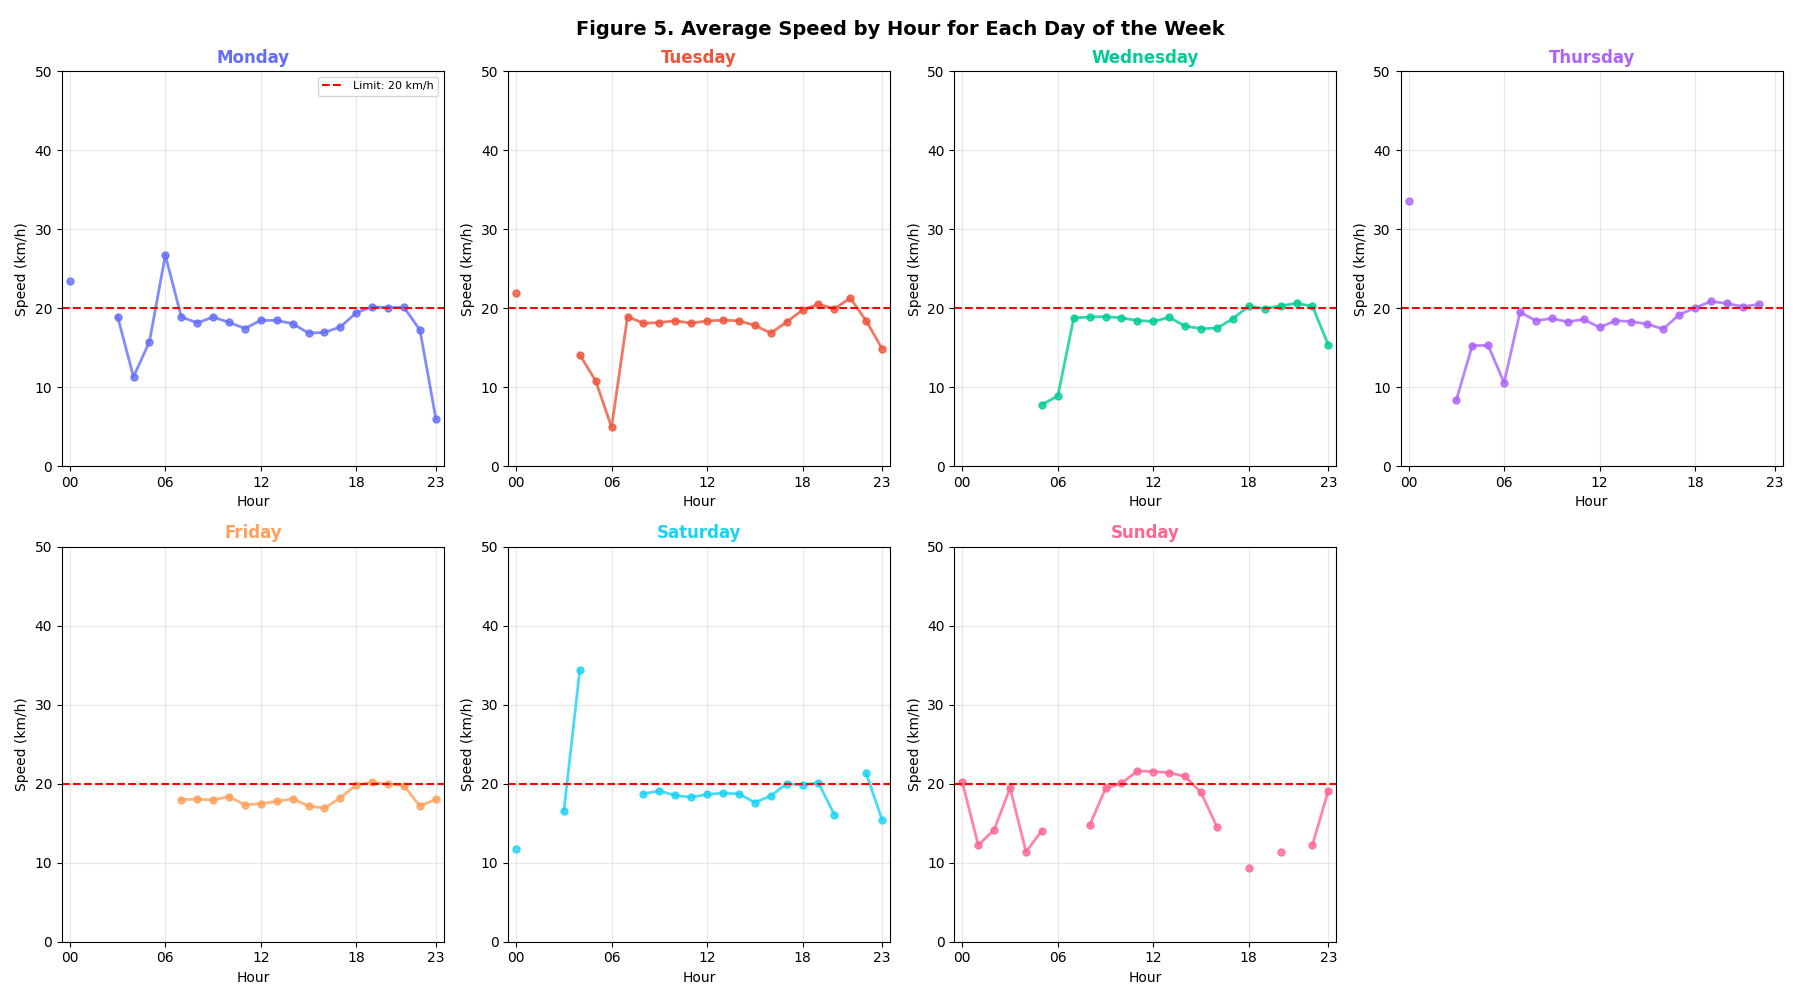
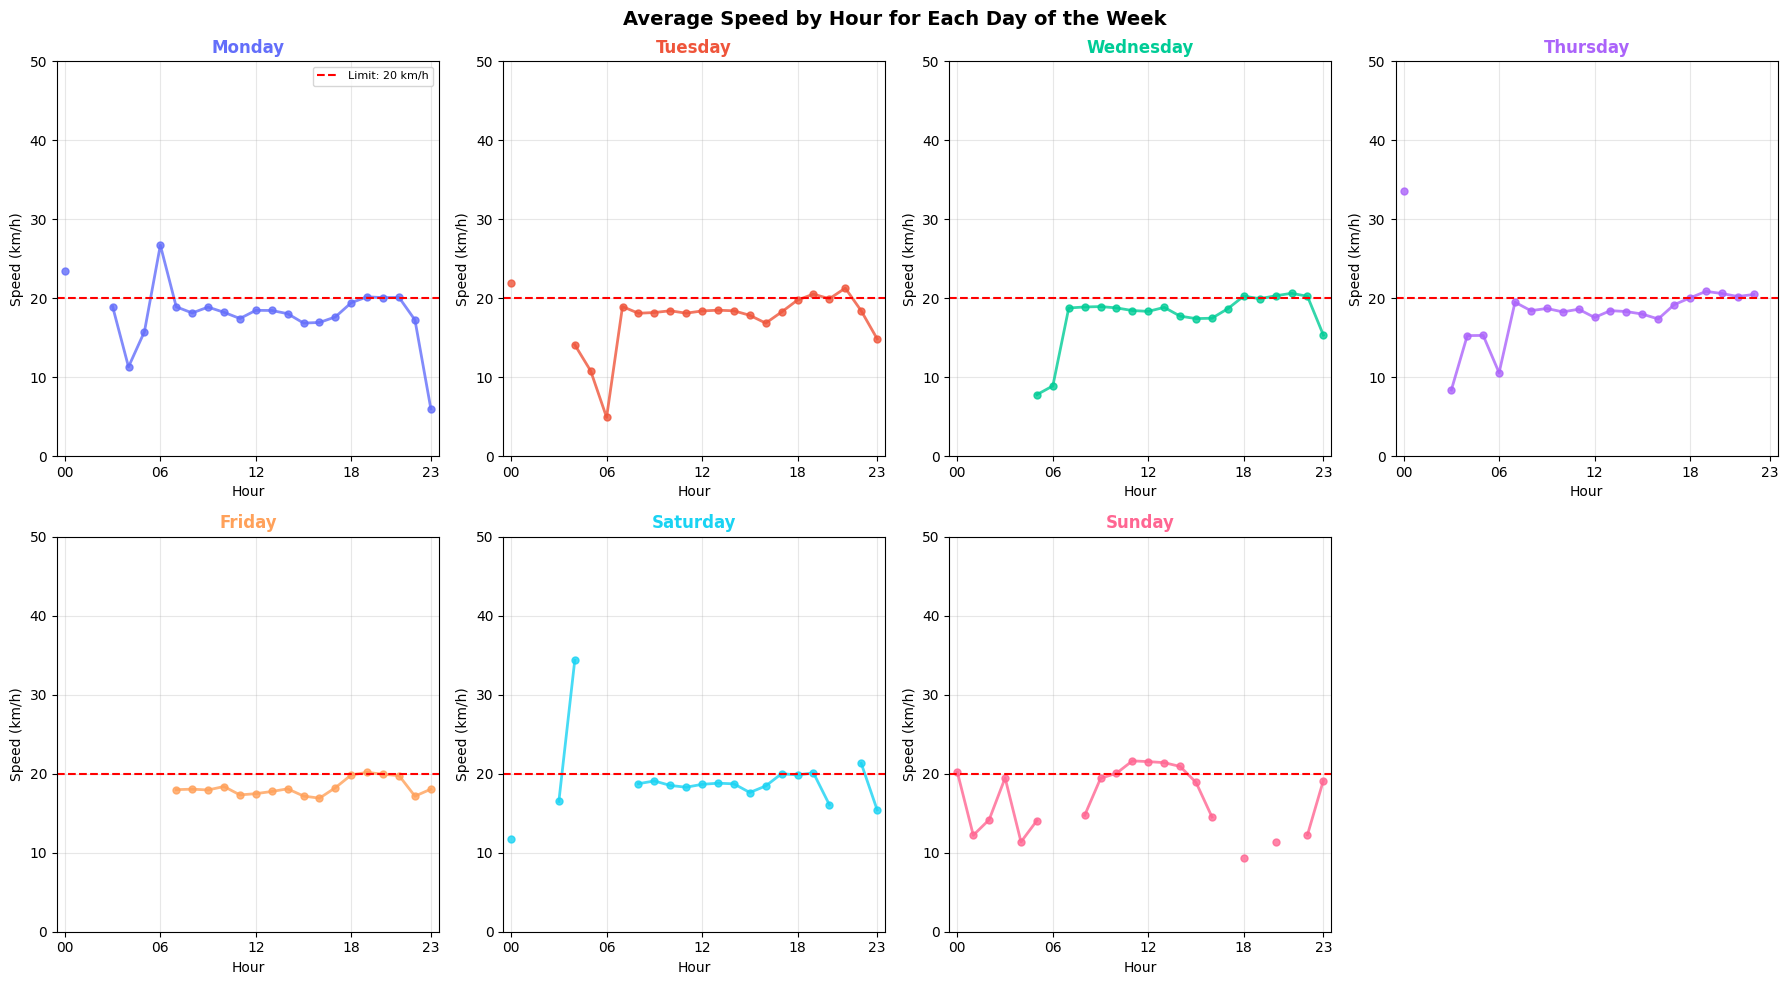
Remove figure numbers from plot titles for consistency in vehicle analysis charts

diff --git a/utils/plots_fiorenzo.py b/utils/plots_fiorenzo.py
@@ -801,7 +801,7 @@ def vehicle_count_by_category_bar_chart(data_summary, show_plot=False):
 
     ax.set_xlabel('Category', fontsize=12, fontweight='bold')
     ax.set_ylabel('Number of Vehicles', fontsize=12, fontweight='bold')
-    ax.set_title('Figure 4. Vehicle Count by Solar Phase and Class', fontsize=14, fontweight='bold')
+    ax.set_title('Vehicle Count by Solar Phase and Class', fontsize=14, fontweight='bold')
     ax.grid(True, alpha=0.3, axis='y')
 
     # Set y-axis limit to accommodate labels
@@ -1075,7 +1075,7 @@ def average_speed_by_weekday_and_hour(final_summary, show_plot=False, speed_limi
     # Hide the last (8th) subplot since we only have 7 days
     axes[7].axis('off')
 
-    plt.suptitle('Figure 5. Average Speed by Hour for Each Day of the Week', fontsize=14, fontweight='bold')
+    plt.suptitle('Average Speed by Hour for Each Day of the Week', fontsize=14, fontweight='bold')
     plt.tight_layout()
     plt.savefig(plots_dir + 'avg_speed_by_weekday_hour.png')
     if show_plot:
@@ -1179,7 +1179,7 @@ def speeding_vehicles_histogram(final_summary, show_plot=False, speed_limit_kmh=
     # Configure axes
     ax.set_ylabel('Date', fontsize=11, fontweight='bold')
     ax.set_xlabel('Number of Vehicles', fontsize=11, fontweight='bold')
-    ax.set_title('Figure 3. Vehicle Count by Speed Category Per Day', fontsize=12, fontweight='bold')
+    ax.set_title('Vehicle Count by Speed Category Per Day', fontsize=12, fontweight='bold')
     ax.set_yticks(y_positions)
     ax.set_yticklabels([d.strftime('%d') for d in all_dates])
     ax.set_ylim(-0.5, len(all_dates) - 0.5)
@@ -1273,7 +1273,7 @@ def speed_category_bar_chart(data_summary, show_plot=False):
 
     ax.set_xlabel('Speed Category', fontsize=12, fontweight='bold')
     ax.set_ylabel('Number of Vehicles', fontsize=12, fontweight='bold')
-    ax.set_title('Figure 3. Vehicle Count by Speed Category', fontsize=14, fontweight='bold')
+    ax.set_title('Vehicle Count by Speed Category', fontsize=14, fontweight='bold')
     ax.grid(True, alpha=0.3, axis='y')
 
     # Set y-axis limit to accommodate labels
